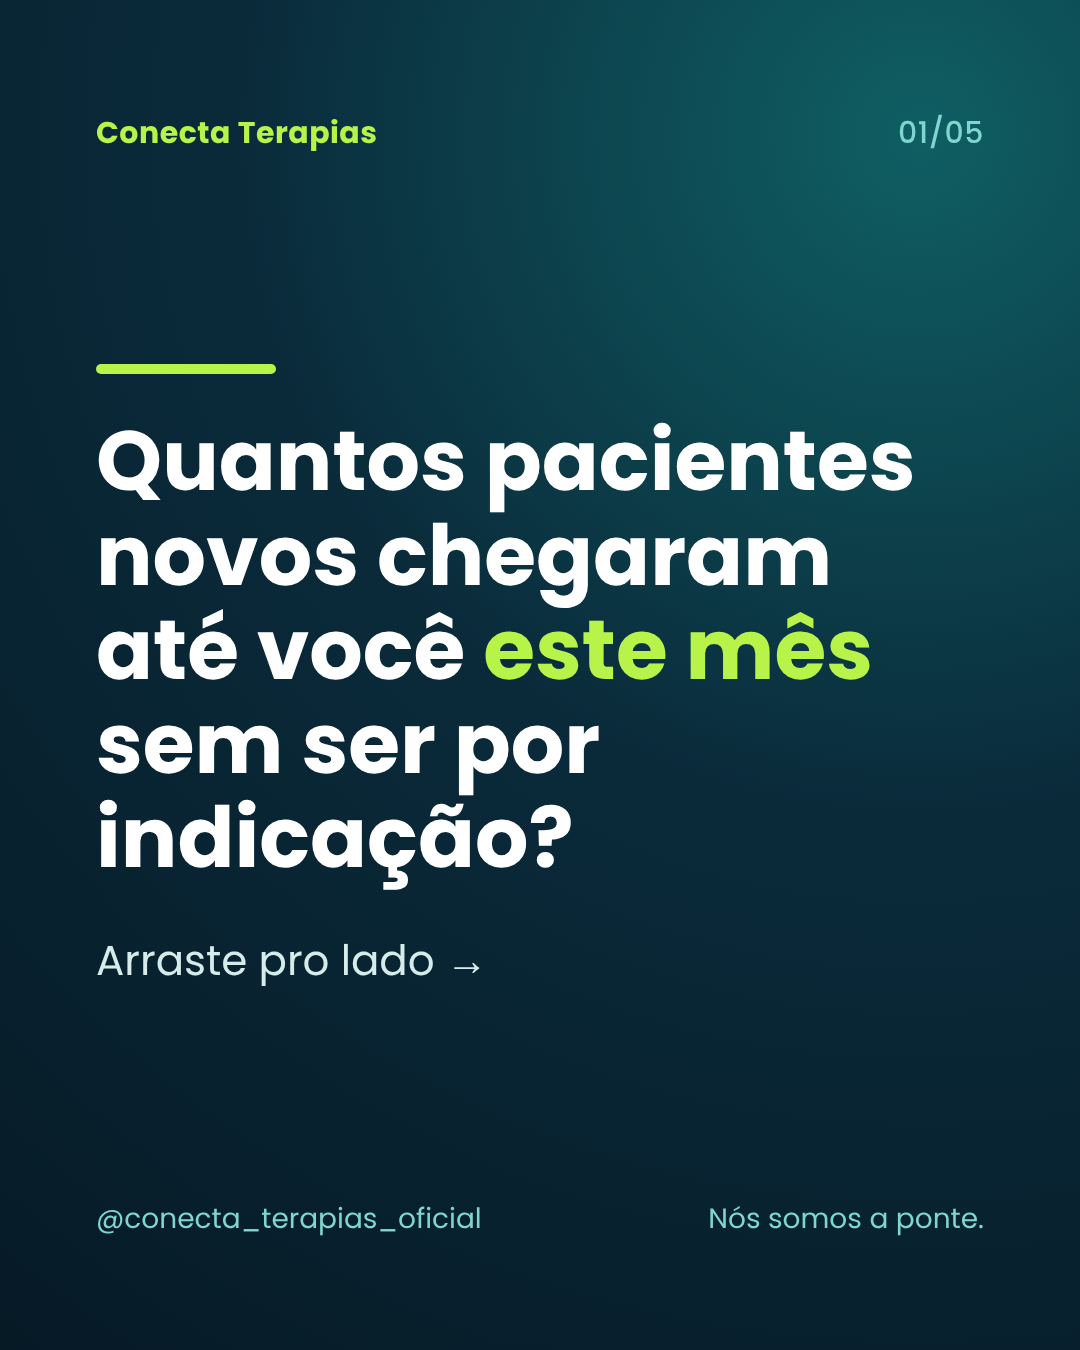
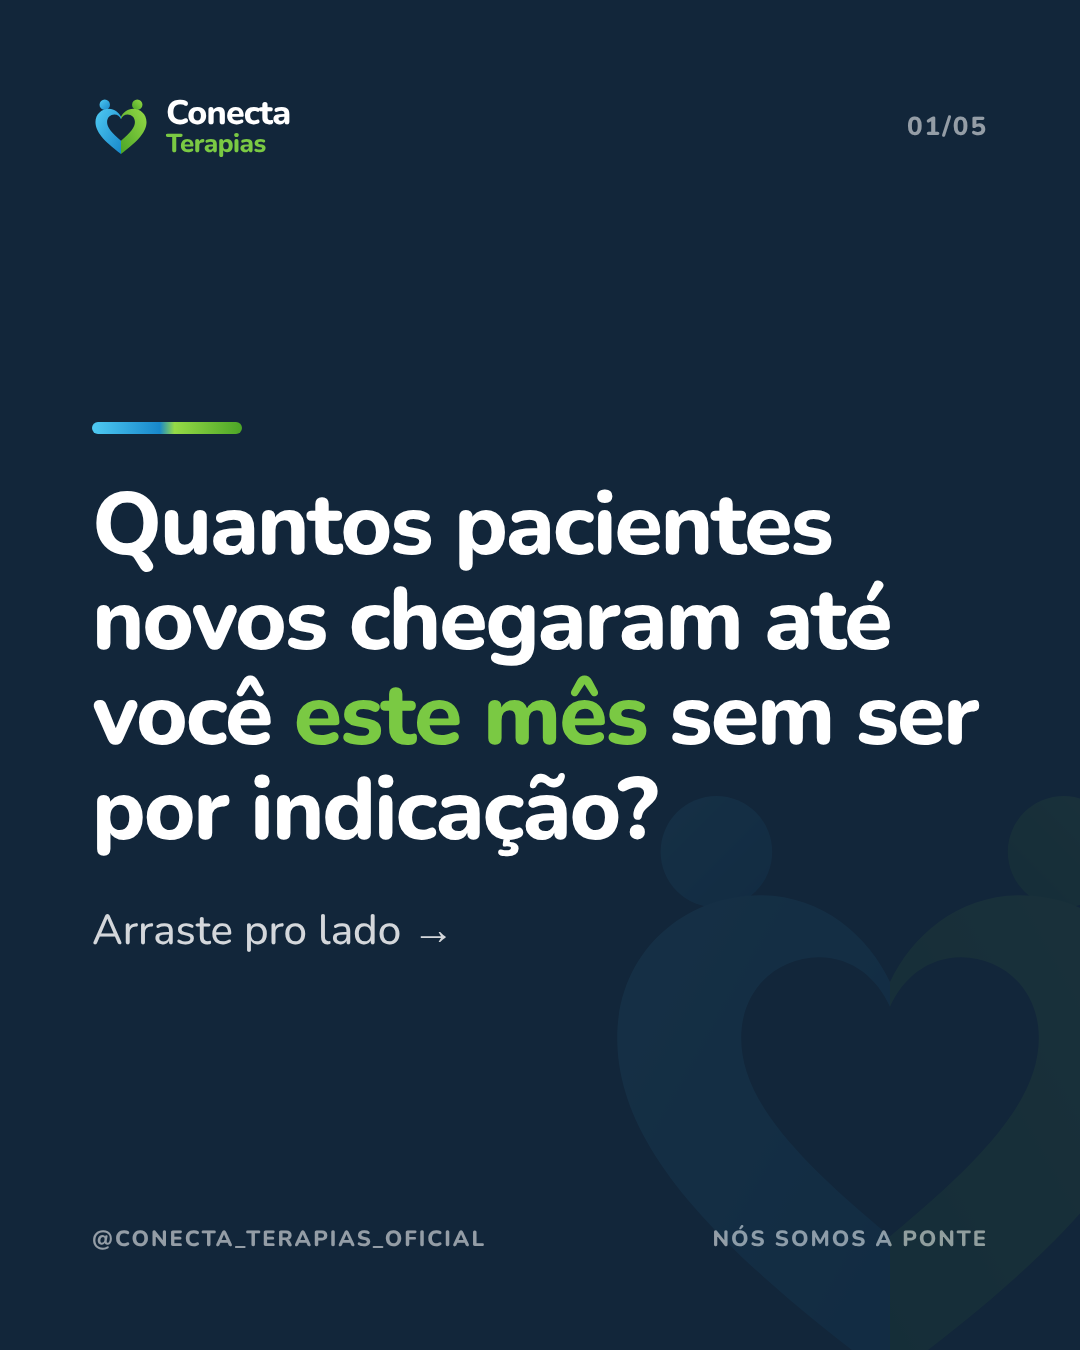
Kit de marca + carrossel 16/11 na identidade visual
Claude-Session: https://claude.ai/code/session_01CZftS2mRqAWdFYvagsMYig

diff --git a/marca/logo-versoes.html b/marca/logo-versoes.html
@@ -1,0 +1,110 @@
+<!DOCTYPE html>
+<html lang="pt-BR">
+<head>
+<meta charset="utf-8">
+<meta name="viewport" content="width=device-width, initial-scale=1">
+<meta name="color-scheme" content="light">
+<title>Conecta Terapias — logo em vetor</title>
+<style>
+:root,html,body{color-scheme:only light}
+*{box-sizing:border-box;margin:0;padding:0}
+body{font-family:'Inter',-apple-system,'Segoe UI',Roboto,Arial,sans-serif;background:#FBF7F1;color:#12263A;line-height:1.6}
+.wrap{max-width:1060px;margin:auto;padding:40px 22px 80px}
+h1{font-size:26px;font-weight:800;letter-spacing:-.6px;margin-bottom:8px}
+.sub{color:#6B6259;font-size:15.5px;margin-bottom:36px;max-width:620px}
+h2{font-size:13px;text-transform:uppercase;letter-spacing:1.4px;color:#6B6259;margin:38px 0 14px;font-weight:800}
+.card{border-radius:20px;padding:38px 32px;display:flex;align-items:center;justify-content:center;gap:40px;flex-wrap:wrap}
+.light{background:#fff;border:1px solid #EAE2D8}
+.dark{background:#12263A}
+.sand{background:#F4EADF;border:1px solid #E6D6C4}
+.row{display:grid;grid-template-columns:1fr 1fr;gap:18px}
+.note{font-size:13.5px;color:#6B6259;margin-top:10px}
+
+/* lockup */
+.lock{display:flex;align-items:center;gap:16px}
+.lock svg{flex:none}
+.word{line-height:1.02;font-family:'Nunito','Arial Rounded MT Bold','Segoe UI',sans-serif}
+.word b{display:block;font-weight:800;letter-spacing:-1px}
+.word small{display:block;font-weight:800;letter-spacing:-.6px}
+.lock-lg .word b{font-size:44px}
+.lock-lg .word small{font-size:34px}
+.lock-md .word b{font-size:26px}
+.lock-md .word small{font-size:20px}
+.on-dark .word b{color:#fff}
+.on-dark .word small{color:#7AC943}
+.on-light .word b{color:#12263A}
+.on-light .word small{color:#4CA527}
+
+.stack{display:flex;flex-direction:column;align-items:center;gap:12px;text-align:center}
+.tag{font-size:11px;letter-spacing:2.2px;font-weight:800;text-transform:uppercase}
+.on-dark .tag{color:rgba(255,255,255,.7)}
+.on-light .tag{color:#6B6259}
+
+.sizes{display:flex;align-items:flex-end;gap:26px;flex-wrap:wrap}
+@media(max-width:760px){.row{grid-template-columns:1fr}}
+</style>
+</head>
+<body>
+<div class="wrap">
+
+<h1>Logo em vetor — versões</h1>
+<p class="sub">Mesmo desenho, refeito em vetor. Sem sujeira de borda, nítido em qualquer tamanho, e com uma versão para fundo claro — que é o que faltava. O miolo do coração é vazado de verdade, então funciona sobre qualquer cor sem retângulo atrás.</p>
+
+<h2>Símbolo</h2>
+<div class="row">
+  <div class="card light">
+    <svg viewBox="0 0 200 206" width="130" height="134"><defs><linearGradient id="b1" x1="0" y1="0" x2="1" y2="1"><stop offset="0" stop-color="#4FCAF2"/><stop offset="1" stop-color="#1888CB"/></linearGradient><linearGradient id="g1" x1="1" y1="0" x2="0" y2="1"><stop offset="0" stop-color="#95DA46"/><stop offset="1" stop-color="#4CA527"/></linearGradient></defs><circle cx="44" cy="26" r="18" fill="url(#b1)"/><circle cx="156" cy="26" r="18" fill="url(#g1)"/><path fill="url(#b1)" fill-rule="evenodd" d="M100 68 C93 53 78 40 58 40 C34 40 12 58 12 86 C12 118 38 150 100 196 Z M100 76 C96 67 88 60 77 60 C64 60 52 70 52 86 C52 104 66 122 100 150 Z"/><path fill="url(#g1)" fill-rule="evenodd" d="M100 68 C107 53 122 40 142 40 C166 40 188 58 188 86 C188 118 162 150 100 196 Z M100 76 C104 67 112 60 123 60 C136 60 148 70 148 86 C148 104 134 122 100 150 Z"/></svg>
+  </div>
+  <div class="card dark">
+    <svg viewBox="0 0 200 206" width="130" height="134"><defs><linearGradient id="b2" x1="0" y1="0" x2="1" y2="1"><stop offset="0" stop-color="#4FCAF2"/><stop offset="1" stop-color="#1888CB"/></linearGradient><linearGradient id="g2" x1="1" y1="0" x2="0" y2="1"><stop offset="0" stop-color="#95DA46"/><stop offset="1" stop-color="#4CA527"/></linearGradient></defs><circle cx="44" cy="26" r="18" fill="url(#b2)"/><circle cx="156" cy="26" r="18" fill="url(#g2)"/><path fill="url(#b2)" fill-rule="evenodd" d="M100 68 C93 53 78 40 58 40 C34 40 12 58 12 86 C12 118 38 150 100 196 Z M100 76 C96 67 88 60 77 60 C64 60 52 70 52 86 C52 104 66 122 100 150 Z"/><path fill="url(#g2)" fill-rule="evenodd" d="M100 68 C107 53 122 40 142 40 C166 40 188 58 188 86 C188 118 162 150 100 196 Z M100 76 C104 67 112 60 123 60 C136 60 148 70 148 86 C148 104 134 122 100 150 Z"/></svg>
+  </div>
+</div>
+<p class="note">O mesmo arquivo nos dois. No PNG atual o miolo do coração só parece vazado porque o fundo era escuro.</p>
+
+<h2>Assinatura horizontal — fundo escuro</h2>
+<div class="card dark on-dark">
+  <div class="lock lock-lg">
+    <svg viewBox="0 0 200 206" width="74" height="76"><defs><linearGradient id="b3" x1="0" y1="0" x2="1" y2="1"><stop offset="0" stop-color="#4FCAF2"/><stop offset="1" stop-color="#1888CB"/></linearGradient><linearGradient id="g3" x1="1" y1="0" x2="0" y2="1"><stop offset="0" stop-color="#95DA46"/><stop offset="1" stop-color="#4CA527"/></linearGradient></defs><circle cx="44" cy="26" r="18" fill="url(#b3)"/><circle cx="156" cy="26" r="18" fill="url(#g3)"/><path fill="url(#b3)" fill-rule="evenodd" d="M100 68 C93 53 78 40 58 40 C34 40 12 58 12 86 C12 118 38 150 100 196 Z M100 76 C96 67 88 60 77 60 C64 60 52 70 52 86 C52 104 66 122 100 150 Z"/><path fill="url(#g3)" fill-rule="evenodd" d="M100 68 C107 53 122 40 142 40 C166 40 188 58 188 86 C188 118 162 150 100 196 Z M100 76 C104 67 112 60 123 60 C136 60 148 70 148 86 C148 104 134 122 100 150 Z"/></svg>
+    <span class="word"><b>Conecta</b><small>Terapias</small></span>
+  </div>
+</div>
+
+<h2>Assinatura horizontal — fundo claro (a que faltava)</h2>
+<div class="card light on-light">
+  <div class="lock lock-lg">
+    <svg viewBox="0 0 200 206" width="74" height="76"><defs><linearGradient id="b4" x1="0" y1="0" x2="1" y2="1"><stop offset="0" stop-color="#4FCAF2"/><stop offset="1" stop-color="#1888CB"/></linearGradient><linearGradient id="g4" x1="1" y1="0" x2="0" y2="1"><stop offset="0" stop-color="#95DA46"/><stop offset="1" stop-color="#4CA527"/></linearGradient></defs><circle cx="44" cy="26" r="18" fill="url(#b4)"/><circle cx="156" cy="26" r="18" fill="url(#g4)"/><path fill="url(#b4)" fill-rule="evenodd" d="M100 68 C93 53 78 40 58 40 C34 40 12 58 12 86 C12 118 38 150 100 196 Z M100 76 C96 67 88 60 77 60 C64 60 52 70 52 86 C52 104 66 122 100 150 Z"/><path fill="url(#g4)" fill-rule="evenodd" d="M100 68 C107 53 122 40 142 40 C166 40 188 58 188 86 C188 118 162 150 100 196 Z M100 76 C104 67 112 60 123 60 C136 60 148 70 148 86 C148 104 134 122 100 150 Z"/></svg>
+    <span class="word"><b>Conecta</b><small>Terapias</small></span>
+  </div>
+</div>
+<p class="note">Aqui "Conecta" é azul-marinho em vez de branco. É o que destrava documento, apresentação, papel timbrado e ícone.</p>
+
+<h2>Assinatura vertical, com a frase</h2>
+<div class="row">
+  <div class="card dark on-dark">
+    <div class="stack">
+      <svg viewBox="0 0 200 206" width="86" height="89"><defs><linearGradient id="b5" x1="0" y1="0" x2="1" y2="1"><stop offset="0" stop-color="#4FCAF2"/><stop offset="1" stop-color="#1888CB"/></linearGradient><linearGradient id="g5" x1="1" y1="0" x2="0" y2="1"><stop offset="0" stop-color="#95DA46"/><stop offset="1" stop-color="#4CA527"/></linearGradient></defs><circle cx="44" cy="26" r="18" fill="url(#b5)"/><circle cx="156" cy="26" r="18" fill="url(#g5)"/><path fill="url(#b5)" fill-rule="evenodd" d="M100 68 C93 53 78 40 58 40 C34 40 12 58 12 86 C12 118 38 150 100 196 Z M100 76 C96 67 88 60 77 60 C64 60 52 70 52 86 C52 104 66 122 100 150 Z"/><path fill="url(#g5)" fill-rule="evenodd" d="M100 68 C107 53 122 40 142 40 C166 40 188 58 188 86 C188 118 162 150 100 196 Z M100 76 C104 67 112 60 123 60 C136 60 148 70 148 86 C148 104 134 122 100 150 Z"/></svg>
+      <span class="word" style="text-align:center"><b style="font-size:34px">Conecta</b><small style="font-size:26px">Terapias</small></span>
+      <span class="tag">Conectando pessoas, transformando vidas</span>
+    </div>
+  </div>
+  <div class="card sand on-light">
+    <div class="stack">
+      <svg viewBox="0 0 200 206" width="86" height="89"><defs><linearGradient id="b6" x1="0" y1="0" x2="1" y2="1"><stop offset="0" stop-color="#4FCAF2"/><stop offset="1" stop-color="#1888CB"/></linearGradient><linearGradient id="g6" x1="1" y1="0" x2="0" y2="1"><stop offset="0" stop-color="#95DA46"/><stop offset="1" stop-color="#4CA527"/></linearGradient></defs><circle cx="44" cy="26" r="18" fill="url(#b6)"/><circle cx="156" cy="26" r="18" fill="url(#g6)"/><path fill="url(#b6)" fill-rule="evenodd" d="M100 68 C93 53 78 40 58 40 C34 40 12 58 12 86 C12 118 38 150 100 196 Z M100 76 C96 67 88 60 77 60 C64 60 52 70 52 86 C52 104 66 122 100 150 Z"/><path fill="url(#g6)" fill-rule="evenodd" d="M100 68 C107 53 122 40 142 40 C166 40 188 58 188 86 C188 118 162 150 100 196 Z M100 76 C104 67 112 60 123 60 C136 60 148 70 148 86 C148 104 134 122 100 150 Z"/></svg>
+      <span class="word" style="text-align:center"><b style="font-size:34px">Conecta</b><small style="font-size:26px">Terapias</small></span>
+      <span class="tag">Conectando pessoas, transformando vidas</span>
+    </div>
+  </div>
+</div>
+
+<h2>Teste de tamanho — o que o PNG não aguenta</h2>
+<div class="card light sizes">
+  <svg viewBox="0 0 200 206" width="112" height="115"><defs><linearGradient id="b7" x1="0" y1="0" x2="1" y2="1"><stop offset="0" stop-color="#4FCAF2"/><stop offset="1" stop-color="#1888CB"/></linearGradient><linearGradient id="g7" x1="1" y1="0" x2="0" y2="1"><stop offset="0" stop-color="#95DA46"/><stop offset="1" stop-color="#4CA527"/></linearGradient></defs><circle cx="44" cy="26" r="18" fill="url(#b7)"/><circle cx="156" cy="26" r="18" fill="url(#g7)"/><path fill="url(#b7)" fill-rule="evenodd" d="M100 68 C93 53 78 40 58 40 C34 40 12 58 12 86 C12 118 38 150 100 196 Z M100 76 C96 67 88 60 77 60 C64 60 52 70 52 86 C52 104 66 122 100 150 Z"/><path fill="url(#g7)" fill-rule="evenodd" d="M100 68 C107 53 122 40 142 40 C166 40 188 58 188 86 C188 118 162 150 100 196 Z M100 76 C104 67 112 60 123 60 C136 60 148 70 148 86 C148 104 134 122 100 150 Z"/></svg>
+  <svg viewBox="0 0 200 206" width="64" height="66"><defs><linearGradient id="b8" x1="0" y1="0" x2="1" y2="1"><stop offset="0" stop-color="#4FCAF2"/><stop offset="1" stop-color="#1888CB"/></linearGradient><linearGradient id="g8" x1="1" y1="0" x2="0" y2="1"><stop offset="0" stop-color="#95DA46"/><stop offset="1" stop-color="#4CA527"/></linearGradient></defs><circle cx="44" cy="26" r="18" fill="url(#b8)"/><circle cx="156" cy="26" r="18" fill="url(#g8)"/><path fill="url(#b8)" fill-rule="evenodd" d="M100 68 C93 53 78 40 58 40 C34 40 12 58 12 86 C12 118 38 150 100 196 Z M100 76 C96 67 88 60 77 60 C64 60 52 70 52 86 C52 104 66 122 100 150 Z"/><path fill="url(#g8)" fill-rule="evenodd" d="M100 68 C107 53 122 40 142 40 C166 40 188 58 188 86 C188 118 162 150 100 196 Z M100 76 C104 67 112 60 123 60 C136 60 148 70 148 86 C148 104 134 122 100 150 Z"/></svg>
+  <svg viewBox="0 0 200 206" width="36" height="37"><defs><linearGradient id="b9" x1="0" y1="0" x2="1" y2="1"><stop offset="0" stop-color="#4FCAF2"/><stop offset="1" stop-color="#1888CB"/></linearGradient><linearGradient id="g9" x1="1" y1="0" x2="0" y2="1"><stop offset="0" stop-color="#95DA46"/><stop offset="1" stop-color="#4CA527"/></linearGradient></defs><circle cx="44" cy="26" r="18" fill="url(#b9)"/><circle cx="156" cy="26" r="18" fill="url(#g9)"/><path fill="url(#b9)" fill-rule="evenodd" d="M100 68 C93 53 78 40 58 40 C34 40 12 58 12 86 C12 118 38 150 100 196 Z M100 76 C96 67 88 60 77 60 C64 60 52 70 52 86 C52 104 66 122 100 150 Z"/><path fill="url(#g9)" fill-rule="evenodd" d="M100 68 C107 53 122 40 142 40 C166 40 188 58 188 86 C188 118 162 150 100 196 Z M100 76 C104 67 112 60 123 60 C136 60 148 70 148 86 C148 104 134 122 100 150 Z"/></svg>
+  <svg viewBox="0 0 200 206" width="22" height="23"><defs><linearGradient id="b10" x1="0" y1="0" x2="1" y2="1"><stop offset="0" stop-color="#4FCAF2"/><stop offset="1" stop-color="#1888CB"/></linearGradient><linearGradient id="g10" x1="1" y1="0" x2="0" y2="1"><stop offset="0" stop-color="#95DA46"/><stop offset="1" stop-color="#4CA527"/></linearGradient></defs><circle cx="44" cy="26" r="18" fill="url(#b10)"/><circle cx="156" cy="26" r="18" fill="url(#g10)"/><path fill="url(#b10)" fill-rule="evenodd" d="M100 68 C93 53 78 40 58 40 C34 40 12 58 12 86 C12 118 38 150 100 196 Z M100 76 C96 67 88 60 77 60 C64 60 52 70 52 86 C52 104 66 122 100 150 Z"/><path fill="url(#g10)" fill-rule="evenodd" d="M100 68 C107 53 122 40 142 40 C166 40 188 58 188 86 C188 118 162 150 100 196 Z M100 76 C104 67 112 60 123 60 C136 60 148 70 148 86 C148 104 134 122 100 150 Z"/></svg>
+</div>
+<p class="note">Do tamanho de cartaz ao tamanho de favicon, o mesmo arquivo. Nenhum deles borra.</p>
+
+</div>
+</body>
+</html>

diff --git a/marca/slides.py b/marca/slides.py
@@ -1,0 +1,49 @@
+"""Gera carrossel 1080x1350 na identidade visual Conecta Terapias.
+Uso: python slides.py <pasta_saida> <slides.json>
+slides.json: [{"tema":"escuro"|"claro","titulo":"... <em>destaque</em> ...","texto":"...","cta":"QUERO"(opcional)}]
+"""
+import asyncio, json, sys
+from pathlib import Path
+from playwright.async_api import async_playwright
+
+M = Path(__file__).parent
+import base64
+FONT = "".join(f"@font-face{{font-family:Nunito;font-weight:{w};src:url(data:font/woff2;base64,{base64.b64encode((M/f'nunito-latin-{w}-normal.woff2').read_bytes()).decode()}) format('woff2')}}" for w in (500,700,800))
+LOGO = """<svg viewBox="0 0 200 206" width="{w}" height="{h}"><defs><linearGradient id="b" x1="0" y1="0" x2="1" y2="1"><stop offset="0" stop-color="#4FCAF2"/><stop offset="1" stop-color="#1888CB"/></linearGradient><linearGradient id="g" x1="1" y1="0" x2="0" y2="1"><stop offset="0" stop-color="#95DA46"/><stop offset="1" stop-color="#4CA527"/></linearGradient></defs><circle cx="44" cy="26" r="18" fill="url(#b)"/><circle cx="156" cy="26" r="18" fill="url(#g)"/><path fill="url(#b)" fill-rule="evenodd" d="M100 68 C93 53 78 40 58 40 C34 40 12 58 12 86 C12 118 38 150 100 196 Z M100 76 C96 67 88 60 77 60 C64 60 52 70 52 86 C52 104 66 122 100 150 Z"/><path fill="url(#g)" fill-rule="evenodd" d="M100 68 C107 53 122 40 142 40 C166 40 188 58 188 86 C188 118 162 150 100 196 Z M100 76 C104 67 112 60 123 60 C136 60 148 70 148 86 C148 104 134 122 100 150 Z"/></svg>"""
+CSS = FONT + """
+*{margin:0;box-sizing:border-box}
+body{width:1080px;height:1350px;font-family:Nunito,sans-serif;padding:96px 92px;display:flex;flex-direction:column;justify-content:space-between;position:relative;overflow:hidden}
+.escuro{background:#12263A;color:#fff}.claro{background:#FBF7F1;color:#12263A}
+.lock{display:flex;align-items:center;gap:16px}.word{line-height:1.02}
+.word b{display:block;font-weight:800;font-size:34px;letter-spacing:-.8px}.word small{display:block;font-weight:800;font-size:26px;letter-spacing:-.5px}
+.escuro .word b{color:#fff}.escuro .word small{color:#7AC943}.claro .word b{color:#12263A}.claro .word small{color:#4CA527}
+.top{display:flex;justify-content:space-between;align-items:center}
+.n{font-weight:800;font-size:26px;letter-spacing:2px}.escuro .n{color:rgba(255,255,255,.55)}.claro .n{color:#6B6259}
+.bar{height:12px;width:150px;border-radius:8px;background:linear-gradient(90deg,#4FCAF2,#1888CB 45%,#95DA46 55%,#4CA527)}
+h1{font-weight:800;font-size:88px;line-height:1.08;letter-spacing:-2px;margin-top:44px}
+.escuro em{font-style:normal;color:#7AC943}.claro em{font-style:normal;color:#1888CB}
+p{font-weight:500;font-size:42px;line-height:1.38;margin-top:44px}.escuro p{color:rgba(255,255,255,.82)}.claro p{color:#4a4440}
+.cta{display:inline-block;margin-top:52px;font-weight:800;font-size:46px;padding:22px 44px;border-radius:999px;color:#12263A;background:linear-gradient(90deg,#95DA46,#7AC943)}
+.foot{display:flex;justify-content:space-between;font-weight:800;font-size:22px;letter-spacing:2px;text-transform:uppercase}
+.escuro .foot{color:rgba(255,255,255,.55)}.claro .foot{color:#6B6259}
+.ghost{position:absolute;right:-120px;bottom:-60px;opacity:.06}
+"""
+async def main(out, data):
+    out = Path(out); out.mkdir(parents=True, exist_ok=True)
+    total = len(data)
+    async with async_playwright() as p:
+        b = await p.chromium.launch(executable_path="/usr/bin/google-chrome")
+        pg = await b.new_page(viewport={"width": 1080, "height": 1350})
+        for i, s in enumerate(data, 1):
+            cta = f"<div class='cta'>Comenta {s['cta']}</div>" if s.get("cta") else ""
+            html = f"""<html><head><style>{CSS}</style></head><body class='{s["tema"]}'>
+<div class='ghost'>{LOGO.format(w=620,h=639)}</div>
+<div class='top'><div class='lock'>{LOGO.format(w=58,h=60)}<span class='word'><b>Conecta</b><small>Terapias</small></span></div><span class='n'>{i:02d}/{total:02d}</span></div>
+<div><div class='bar'></div><h1>{s['titulo']}</h1>{f"<p>{s['texto']}</p>" if s.get('texto') else ''}{cta}</div>
+<div class='foot'><span>@conecta_terapias_oficial</span><span>Nós somos a ponte</span></div></body></html>"""
+            await pg.set_content(html); await pg.evaluate('document.fonts.ready'); await pg.wait_for_timeout(300)
+            await pg.screenshot(path=str(out / f"{i}.png"))
+        await b.close()
+
+if __name__ == "__main__":
+    asyncio.run(main(sys.argv[1], json.loads(Path(sys.argv[2]).read_text())))

diff --git a/marca/README.md b/marca/README.md
@@ -1,0 +1,10 @@
+# Identidade visual Conecta Terapias
+
+- Azul-marinho `#12263A` (fundo escuro / texto em fundo claro)
+- Areia `#FBF7F1` / `#F4EADF` (fundo claro)
+- Azul degradê `#4FCAF2 → #1888CB` · Verde degradê `#95DA46 → #4CA527` · Verde destaque em escuro `#7AC943`
+- Fonte: Nunito 800 (títulos) e 500 (texto)
+- Logo: `logo-versoes.html` (símbolo em vetor, "Conecta" + "Terapias" em verde)
+- Frase: "Conectando pessoas, transformando vidas" · Rodapé: "Nós somos a ponte"
+
+Carrossel: `python marca/slides.py <pasta> <slides.json>` (1080x1350, alterna escuro/claro).
